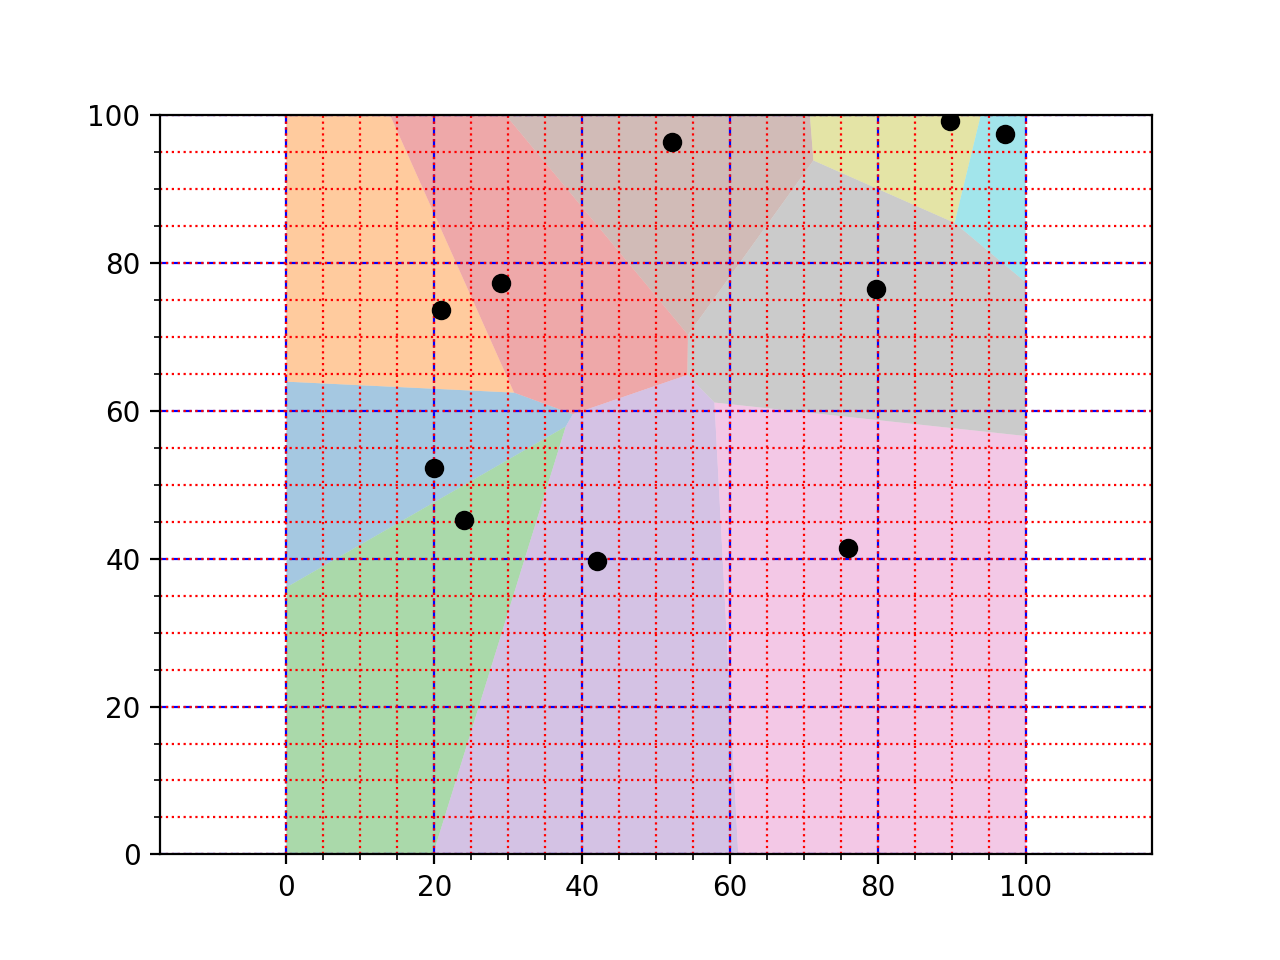
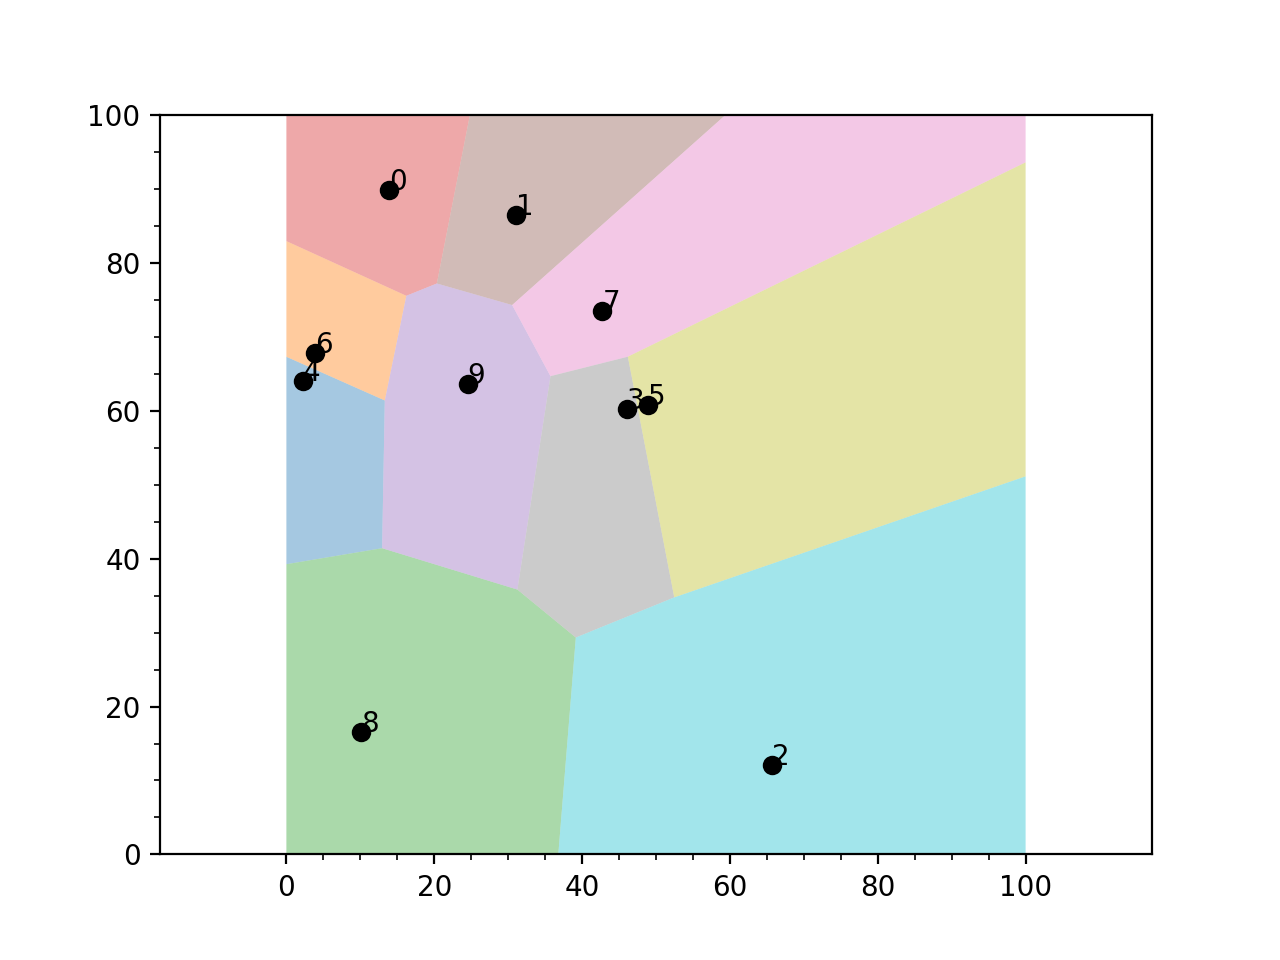
Fixing bugs

diff --git a/sim.py b/sim.py
@@ -8,64 +8,150 @@ from voronoi_util import voronoi_finite_polygons_2d
 from scipy.spatial import Voronoi, ConvexHull
 from shapely.geometry import Polygon
 
+MAX_VALUE = 9223372036854775807.0
+
 
 class Simulator(object):
     """docstring for Simulator"""
-    def __init__(self, num_agents, agent_type, state_space_dim, bounding_box):
+    def __init__(
+        self,
+        num_agents,
+        agent_type,
+        ss_dim,
+        bounding_box,
+        episode_length=100
+    ):
         super(Simulator, self).__init__()
-        self.state_space_dim = state_space_dim
+        self.ss_dim = ss_dim
         self.round = 0
-        self.agents = list(map(lambda i:
-                           self.create_agent(i, agent_type, state_space_dim),
-                           range(num_agents)))
-        self.bounding_box = bounding_box
+        self.agents = self.create_agents(num_agents, agent_type, ss_dim)
+        self.min_x = bounding_box[0]
+        self.max_x = bounding_box[1]
+        self.min_y = bounding_box[2]
+        self.max_y = bounding_box[3]
+        self.episode_length = episode_length
+        self.colors = [np.random.rand(3,) for i in range(num_agents)]
 
-    def step(self):
-        positions = np.stack(list(map(lambda a: a.position, self.agents)))
-        actions = np.stack(list(map(lambda a: a.move(positions), self.agents)))
+    def run_episode(self):
+        for i in range(self.episode_length):
+            # stack state of environment
+            positions = np.stack(list(map(
+                lambda a: a.position,
+                self.agents)))
+            # stack actions of agents
+            actions = np.stack(list(map(
+                lambda a: a.act(positions),
+                self.agents)))
+            rewards = self.step(actions)
+
+            for inx, agent in enumerate(self.agents):
+                agent.remember(
+                    positions,      # state
+                    actions[inx],   # action
+                    rewards[inx],   # reward
+                    actions,        # next_state
+                    False)          # done
+
+        for agent in self.agents:
+            agent.replay(32)
+
+    def step(self, actions):
+        # order agents
+        rewards, region_indices = [], []
+        # compute unique actions for tesselation
         unique_actions = np.unique(actions, axis=0)
         # compute Voronoi tesselation
         vor = Voronoi(unique_actions)
-        if self.state_space_dim == 2:
+        if self.ss_dim == 2:
             volumes, regions, vertices = self.process_vor(vor)
-            total_volume = sum(list(map(lambda elt: elt["volume"], volumes)))
-            # log deviation from full volume
-            if total_volume != 10000.0:
-                print("Total vol: {}".format(total_volume))
             # re-match up volumes to points by their centroids
-            for inx, elt in enumerate(self.agents):
+            for _, agent in enumerate(self.agents):
                 min_inx = 0
-                min_dist = 9223372036854775807.0
-                for iinx, eelt in enumerate(volumes):
-                    dist = np.linalg.norm(elt.position - eelt["centroid"])
+                min_dist = MAX_VALUE
+                # match each point to closest centroid by l2-norm
+                for inx, elt in enumerate(volumes):
+                    dist = np.linalg.norm(agent.position - elt["centroid"])
                     if dist < min_dist:
                         min_dist = dist
-                        min_inx = iinx
-
-                self.agents[inx].process_reward(volumes[min_inx]["volume"])
-
-            try:
-                self.plot_voronoi(vor, regions, vertices, unique_actions)
-            except Exception as e:
-                raise e
+                        min_inx = inx
+                # append correct reward to agent index
+                rewards.append(volumes[min_inx]["volume"])
+                # append correct region index to agent index
+                region_indices.append(min_inx)
+            self.plot_voronoi(vor, regions, vertices, unique_actions, region_indices)
+            return rewards
         else:
             raise ValueError(Error.UnsupportedDimension)
 
     def process_vor(self, vor):
         regions, vertices = voronoi_finite_polygons_2d(vor)
+        box = self.get_bounding_box(vertices)
+        volumes = []
+        for inx, region in enumerate(regions):
+            polygon = vertices[region]
+            # Clipping polygon
+            poly = Polygon(polygon)
+            poly = poly.intersection(box)
+            polygon = [p for p in poly.exterior.coords]
+            hull = ConvexHull(np.stack(polygon))
+            centroid = np.array([
+                np.mean(hull.points[hull.vertices, 0]),
+                np.mean(hull.points[hull.vertices, 1])
+            ])
+            # append volume and centroid
+            volumes.append({"volume": hull.volume, "centroid": centroid})
+        return volumes, regions, vertices
 
-        min_x = 0
-        max_x = 100
-        min_y = 0
-        max_y = 100
+    def create_agents(self, num_agents, agent_type, ss_dim):
+        agents = []
+        for i in range(num_agents):
+            if agent_type == AgentType.Simple:
+                # Simple agents all start in center of [0,1]
+                agent = Agent(
+                    i,
+                    np.around(np.full((ss_dim,), 50.0), decimals=3),
+                    ss_dim * num_agents,
+                    ss_dim)
+            elif agent_type == AgentType.Random:
+                agent = Agent(
+                    i,
+                    np.around(np.random.uniform(0, 100.0, ss_dim), decimals=3),
+                    ss_dim * num_agents,
+                    ss_dim)
+            else:
+                raise ValueError(Error.InvalidAgentType)
 
-        mins = np.tile((min_x, min_y), (vertices.shape[0], 1))
+            agents.append(agent)
+        return agents
+
+    def get_agent_of_region_inx(self, region_indices, index):
+        for inx, region_inx in enumerate(region_indices):
+            if region_inx == index:
+                return inx
+
+    def get_agent_index_for_point(self, point):
+        for inx, agent in enumerate(self.agents):
+            if agent.position[0] == point[0] and agent.position[1] == point[1]:
+                return inx
+
+    def get_bounding_box(self, vertices):
+        mins = np.tile((self.min_x, self.min_y), (vertices.shape[0], 1))
         bounded_vertices = np.max((vertices, mins), axis=0)
-        maxs = np.tile((max_x, max_y), (vertices.shape[0], 1))
+        maxs = np.tile((self.max_x, self.max_y), (vertices.shape[0], 1))
         bounded_vertices = np.min((bounded_vertices, maxs), axis=0)
 
-        box = Polygon([[min_x, min_y], [min_x, max_y], [max_x, max_y], [max_x, min_y]])
-        volumes = []
+        return Polygon([
+            [min_x, min_y],
+            [min_x, max_y],
+            [max_x, max_y],
+            [max_x, min_y]])
+
+    def plot_voronoi(self, vor, regions, vertices, points, region_indices):
+        fig = plt.figure()
+        ax = fig.add_subplot(1, 1, 1)
+
+        box = self.get_bounding_box(vertices)
+
         # colorize
         for inx, region in enumerate(regions):
             polygon = vertices[region]
@@ -73,59 +159,16 @@ class Simulator(object):
             poly = Polygon(polygon)
             poly = poly.intersection(box)
             polygon = [p for p in poly.exterior.coords]
-            new_vertices = np.stack(polygon)
-            hull = ConvexHull(new_vertices)
-            # centoid
-            cx = np.mean(hull.points[hull.vertices, 0])
-            cy = np.mean(hull.points[hull.vertices, 1])
-            centroid = np.array([cx, cy])
-            # append volume and centroid
-            volumes.append({"volume": hull.volume, "centroid": centroid});
-        return volumes, regions, vertices
-
-    def create_agent(self, agent_id, agent_type, state_space_dim):
-        mul_factor = 1e2
-        if agent_type == AgentType.Simple:
-            # Simple agents all start in center of [0,1] with largest velocity
-            position = np.around(np.full((state_space_dim,), 0.5) * mul_factor, decimals=3)
-            velocity = np.around(np.full((state_space_dim,), 1.0) * mul_factor, decimals=3)
-            return Agent(agent_id, position, velocity)
-        elif agent_type == AgentType.Random:
-            position = np.around(np.random.uniform(0, 1, state_space_dim) * mul_factor, decimals=3)
-            velocity = np.around(np.random.uniform(0, 1, state_space_dim) * mul_factor, decimals=3)
-            return Agent(agent_id, position, velocity)
-        else:
-            raise ValueError(Error.InvalidAgentType)
-
-    def plot_voronoi(self, vor, regions, vertices, points):
-        fig = plt.figure()
-        ax = fig.add_subplot(1, 1, 1)
-
-        min_x = 0
-        max_x = 100
-        min_y = 0
-        max_y = 100
-
-        mins = np.tile((min_x, min_y), (vertices.shape[0], 1))
-        bounded_vertices = np.max((vertices, mins), axis=0)
-        maxs = np.tile((max_x, max_y), (vertices.shape[0], 1))
-        bounded_vertices = np.min((bounded_vertices, maxs), axis=0)
-
-        box = Polygon([[min_x, min_y], [min_x, max_y], [max_x, max_y], [max_x, min_y]])
-
-        # colorize
-        for region in regions:
-            polygon = vertices[region]
-            # Clipping polygon
-            poly = Polygon(polygon)
-            poly = poly.intersection(box)
-            polygon = [p for p in poly.exterior.coords]
+            # agent_inx = self.get_agent_of_region_inx(region_indices, inx)
             ax.fill(*zip(*polygon), alpha=0.4)
 
         ax.plot(points[:, 0], points[:, 1], 'ko')
+        for inx, elt in enumerate(points):
+            ax.annotate(
+                self.get_agent_index_for_point(points[inx]),
+                (points[inx][0], points[inx][1]))
+
         ax.axis('equal')
-        # ax.xlim(-200, 200)
-        # ax.ylim(-200, 200)
         ax.set_xlim(min_x, max_x)
         ax.set_ylim(min_y, max_y)
         # Major ticks every 20, minor ticks every 5
@@ -136,14 +179,24 @@ class Simulator(object):
         ax.set_xticks(minor_ticks, minor=True)
         ax.set_yticks(major_ticks)
         ax.set_yticks(minor_ticks, minor=True)
-        ax.grid(which='major', color='b', linestyle='--')
-        ax.grid(which='minor', color='r', linestyle=':')
+        # ax.grid(which='major', color='b', linestyle='--')
+        # ax.grid(which='minor', color='r', linestyle=':')
         plt.savefig('voro.png', dpi=200)
 
 if __name__ == '__main__':
+    min_x = 0
+    max_x = 100
+    min_y = 0
+    max_y = 100
+
     num_agents = 10
     agent_type = AgentType.Random
-    state_space_dim = 2
-    bounding_box = np.array([0.0, 1.0, 0.0, 0.0])  # [x_min,x_max,y_min,y_max]
-    s = Simulator(num_agents, agent_type, state_space_dim, bounding_box)
-    s.step()
+    ss_dim = 2
+    bounding_box = np.array([min_x, max_x, min_y, max_y])
+    s = Simulator(
+        num_agents,
+        agent_type,
+        ss_dim,
+        bounding_box,
+        episode_length=64)
+    s.run_episode()

diff --git a/models.py b/models.py
@@ -1,0 +1,54 @@
+import random
+import numpy as np
+from collections import deque
+from keras.models import Sequential
+from keras.layers import Dense
+from keras.optimizers import Adam
+
+
+# Deep Q-learning Agent
+class DQNAgent:
+    def __init__(self, state_size, action_size):
+        self.state_size = state_size
+        self.action_size = action_size
+        self.memory = deque(maxlen=2000)
+        self.gamma = 0.95    # discount rate
+        self.epsilon = 1.0  # exploration rate
+        self.epsilon_min = 0.01
+        self.epsilon_decay = 0.995
+        self.learning_rate = 0.001
+        self.model = self._build_model()
+
+    def _build_model(self):
+        # Neural Net for Deep-Q learning Model
+        model = Sequential()
+        model.add(Dense(24, input_dim=self.state_size, activation='relu'))
+        model.add(Dense(24, activation='relu'))
+        model.add(Dense(self.action_size, activation='linear'))
+        model.compile(loss='mse',
+                      optimizer=Adam(lr=self.learning_rate))
+        return model
+
+    def remember(self, state, action, reward, next_state, done):
+        self.memory.append((state, action, reward, next_state, done))
+
+    def act(self, state):
+        if np.random.rand() <= self.epsilon:
+            return np.around(
+                np.random.uniform(0, 100, self.action_size),
+                decimals=3)
+        act_values = self.model.predict(state)
+        return np.argmax(act_values[0])  # returns action
+
+    def replay(self, batch_size):
+        minibatch = random.sample(self.memory, batch_size)
+        for state, action, reward, next_state, done in minibatch:
+            target = reward
+            if not done:
+                target = reward + self.gamma * \
+                    np.amax(self.model.predict(next_state)[0])
+            target_f = self.model.predict(state)
+            target_f[0][action] = target
+            self.model.fit(state, target_f, epochs=1, verbose=0)
+        if self.epsilon > self.epsilon_min:
+            self.epsilon *= self.epsilon_decay

diff --git a/agent.py b/agent.py
@@ -1,5 +1,6 @@
 from enum import Enum
 import numpy as np
+from models import DQNAgent
 
 
 class AgentType(Enum):
@@ -17,17 +18,31 @@ class Error(Enum):
 
 class Agent(object):
     """docstring for Agent"""
-    def __init__(self, agent_id, position, velocity):
+    def __init__(
+        self,
+        agent_id,
+        position,
+        input_dim,
+        output_dim,
+    ):
         super(Agent, self).__init__()
         self.agent_id = agent_id
         self.position = np.array(position)
-        self.velocity = np.array(velocity)
-    
-    def move(self, state):
-        self.position = state[self.agent_id]
+        self.rl_agent = DQNAgent(input_dim, output_dim)
+
+    def act(self, state):
+        # flatten state when passing to rl_agent
+        new_position = self.rl_agent.act(state.flatten())
+        self.position = new_position
         return self.position
 
-    def process_reward(self, reward):
-        print("Reward: {}, Position: {}".format(reward, self.position))
-        pass
+    def replay(self, batch_size):
+        return self.rl_agent.replay(batch_size)
 
+    def remember(self, state, action, reward, next_state, done):
+        return self.rl_agent.remember(
+            state.flatten(),
+            action,
+            reward,
+            next_state.flatten(),
+            done)
